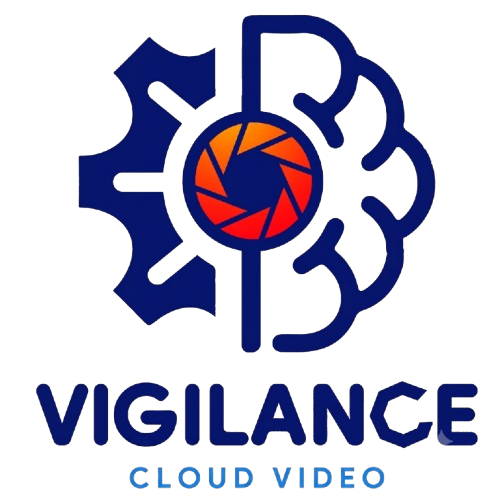
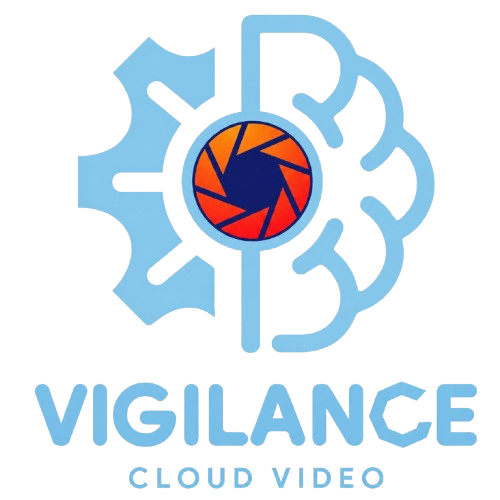
feat: update document container styles for improved responsiveness and adjust header image size

diff --git a/src/app/(frontend)/globals.css b/src/app/(frontend)/globals.css
@@ -1544,14 +1544,16 @@ html {
   padding: 120px 0 80px;
 }
 
-.documents-container {
-  width: min(100% - 40px, 1500px);
-  margin: 0 auto;
+.documents-container{
+    width:100%;
+    max-width:1400px;      
+    margin:0 auto;
+    padding:0px 250px;
 }
 
 .documents-container h1 {
   text-align: center;
-  color: #002ccc;
+  color: #ffffff;
   font-size: 30px;
   font-weight: 900;
   margin-bottom: 40px;
@@ -1559,13 +1561,15 @@ html {
 
 .documents-grid {
   display: grid;
-  grid-template-columns: repeat(3, 1fr);
+  grid-template-columns: repeat(2, 1fr);
   gap: 48px 70px;
+  max-width:1200px;
+  margin:0 auto;
 }
 
 .document-card {
   background: #101b31;
-  border: 1px solid rgba(0, 137, 242, 0.925);
+  border: 2px solid rgba(0, 19, 144, 0.925);
   border-radius: 22px;
   overflow: hidden;
 
@@ -1591,12 +1595,17 @@ html {
   font-size: 18px;
   font-weight: 800;
   margin-bottom: 12px;
+  text-align: center;
+  color: #ffffff;
 }
 
 .document-card p {
   font-size: 18px;
   font-weight: 800;
   margin-bottom: 16px;
+  text-align: center;
+  justify-content: center;
+  color: #ffffff;
 }
 
 .document-card a {
@@ -1636,10 +1645,38 @@ html {
   box-shadow: 0 10px 30px rgba(0, 212, 255, .35);
 }
 
-@media (max-width: 900px) {
-  .documents-grid {
-    grid-template-columns: 1fr;
-  }
+@media (max-width:1200px){
+    .documents-container{
+        padding:0 40px;
+    }
+}
+
+@media (max-width:768px){
+    .documents-container{
+        padding:0 20px;
+    }
+
+    .documents-container h1{
+        font-size:36px;
+        line-height:1.2;
+        word-break:keep-all;
+        overflow-wrap:normal;
+    }
+
+    .documents-grid{
+        grid-template-columns:1fr;
+        gap:28px;
+    }
+}
+
+@media (max-width:480px){
+    .documents-container{
+        padding:0 16px;
+    }
+
+    .documents-container h1{
+        font-size:30px;
+    }
 }
 .vcv-footer-tagline{
   color: #909090;

diff --git a/src/components/SiteHeader/index.tsx b/src/components/SiteHeader/index.tsx
@@ -93,7 +93,7 @@ export default function SiteHeader() {
   return (
     <header className="site-header">
       <div className="container site-header-inner">
-        <img width="200" height="200" src="/clients/8.png" alt="VCV Cloud Camera"></img>
+        <img width="170" height="170" src="/clients/8.png" alt="VCV Cloud Camera"></img>
 
         <button className="mobile-menu-btn" onClick={() => setOpen(!open)}>
           {open ? '✕' : '☰'}